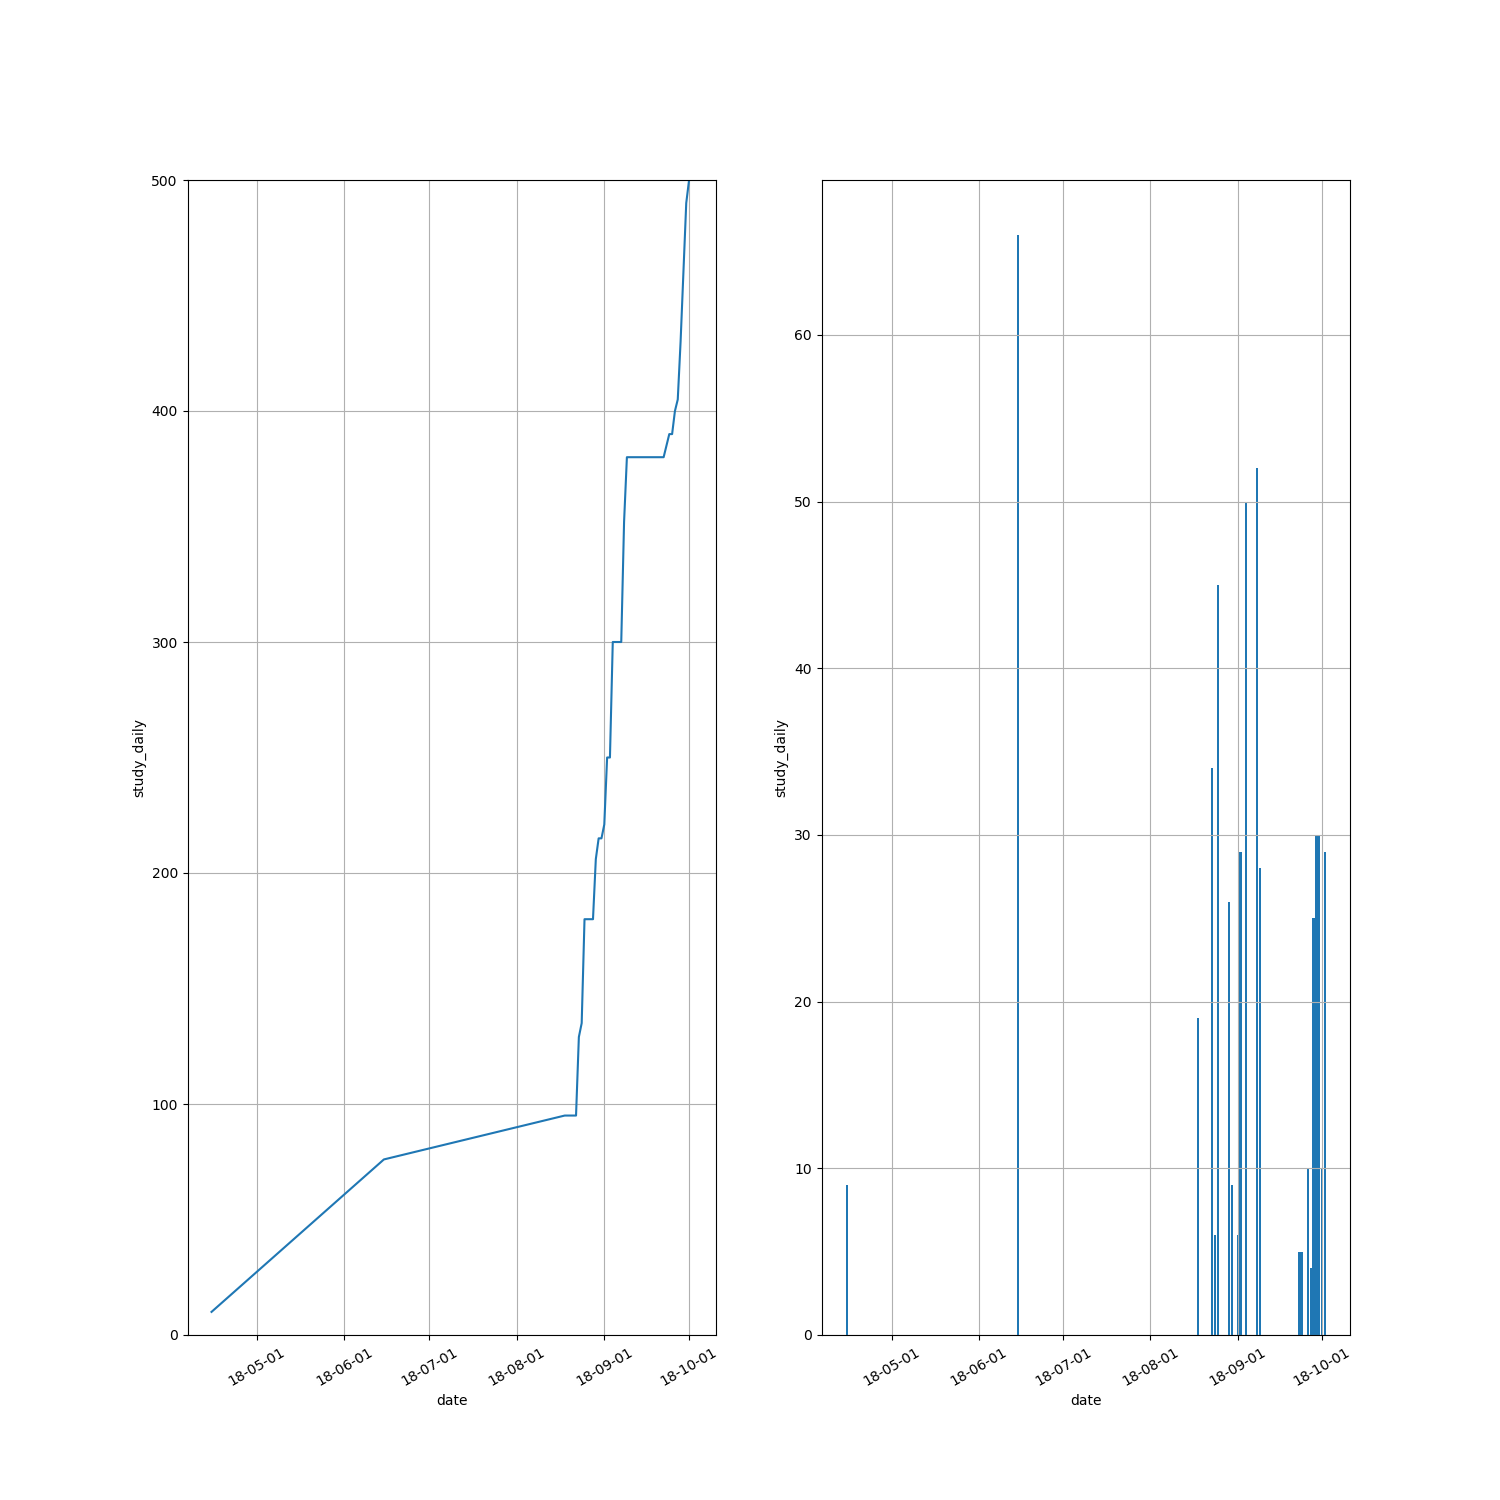
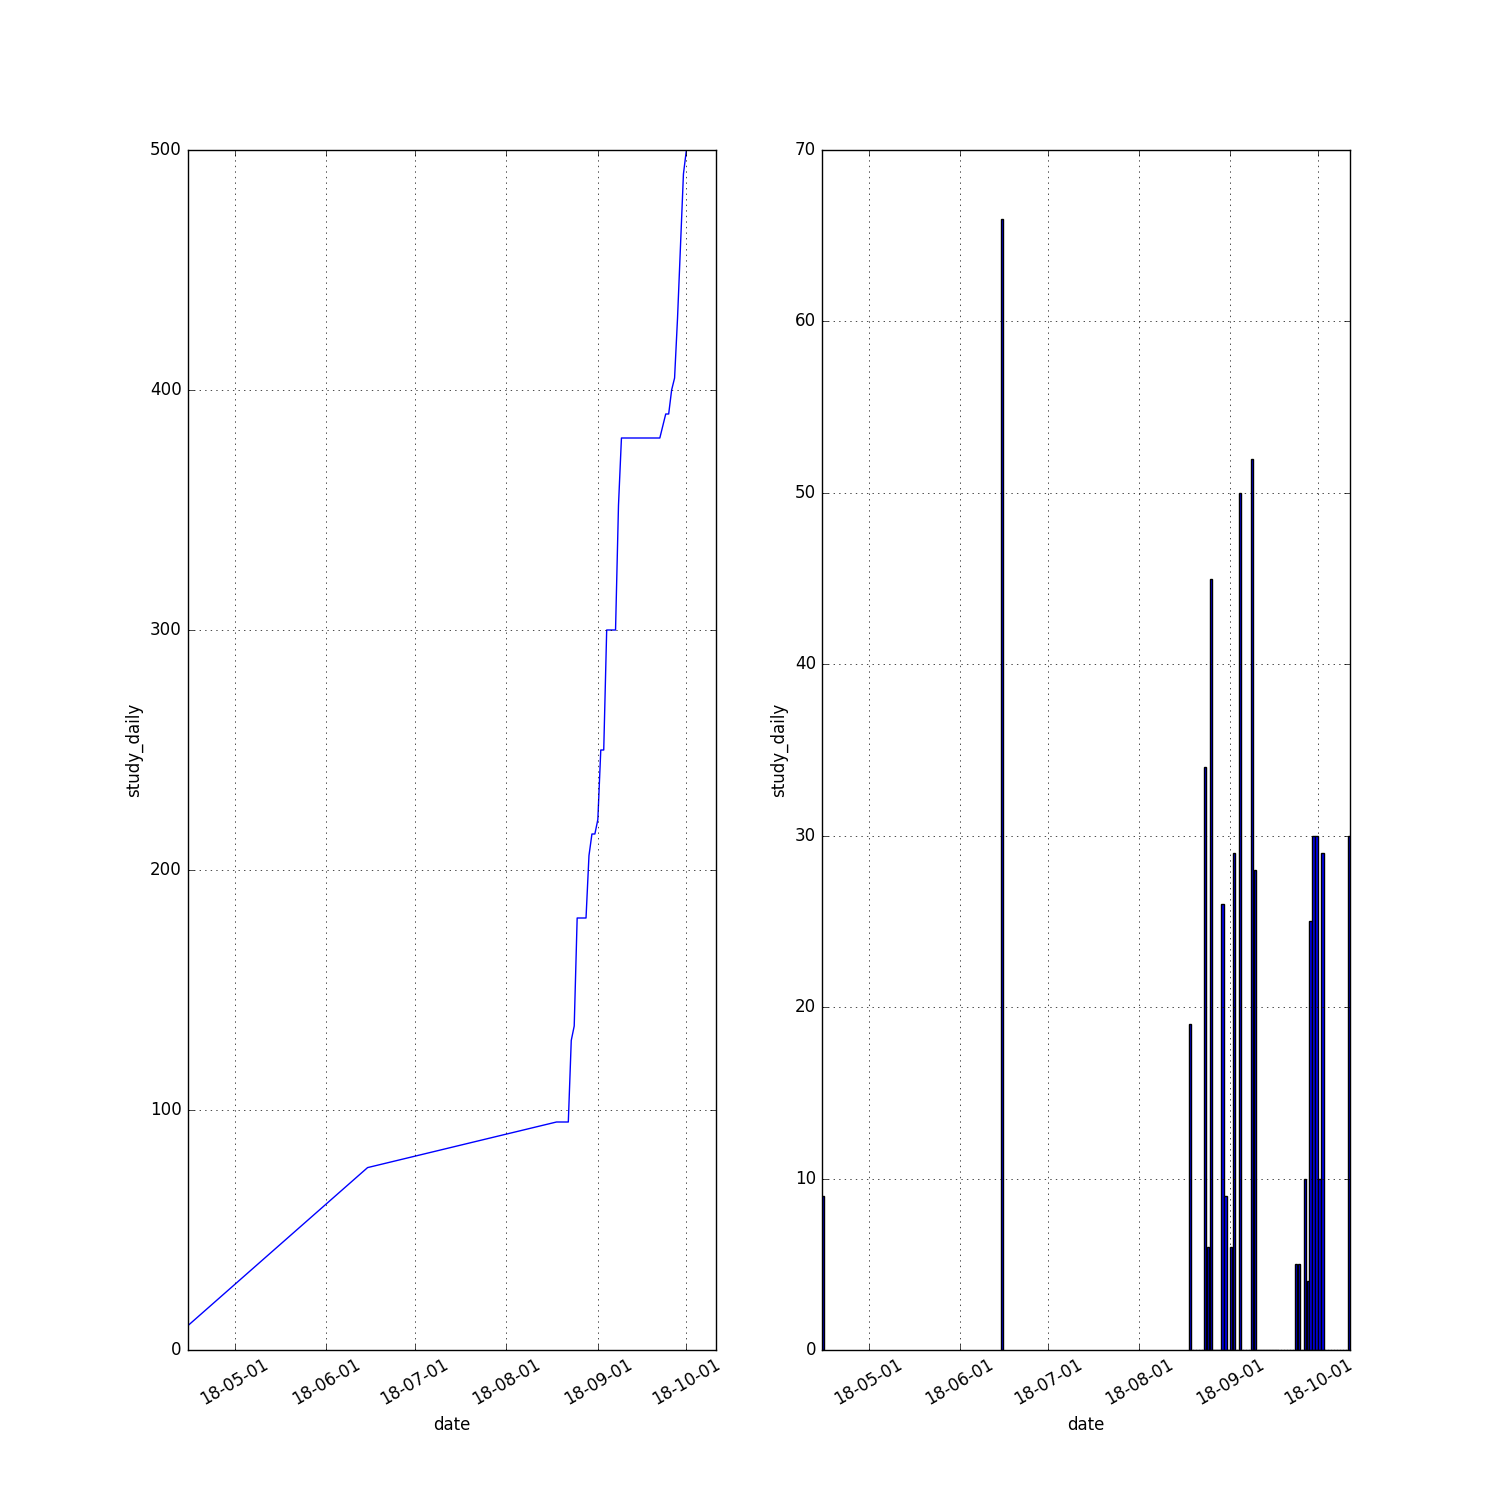
更新11号进度，今晚必须提交一版

diff --git a/README.md b/README.md
@@ -49,6 +49,15 @@
     2018/9/30,开题报告-60,开题报告-90
     2018/10/1,开题报告-90,毕业项目-0
     2018/10/2,毕业项目-1,毕业项目-30
+    2018/10/3,毕业项目-30,毕业项目-30
+    2018/10/4,毕业项目-30,毕业项目-30
+    2018/10/5,毕业项目-30,毕业项目-30
+    2018/10/6,毕业项目-30,毕业项目-30
+    2018/10/7,毕业项目-30,毕业项目-30
+    2018/10/8,毕业项目-30,毕业项目-30
+    2018/10/9,毕业项目-30,毕业项目-30
+    2018/10/10,毕业项目-30,毕业项目-30
+    2018/10/11,毕业项目-30,毕业项目-60
     >>>>>>>>>>>END<<<<<<<<<<<<](https://github.com/NemoHoHaloAi/machine-learning-plus/blob/master/study_daily.png)
 
 ## final learn plan
